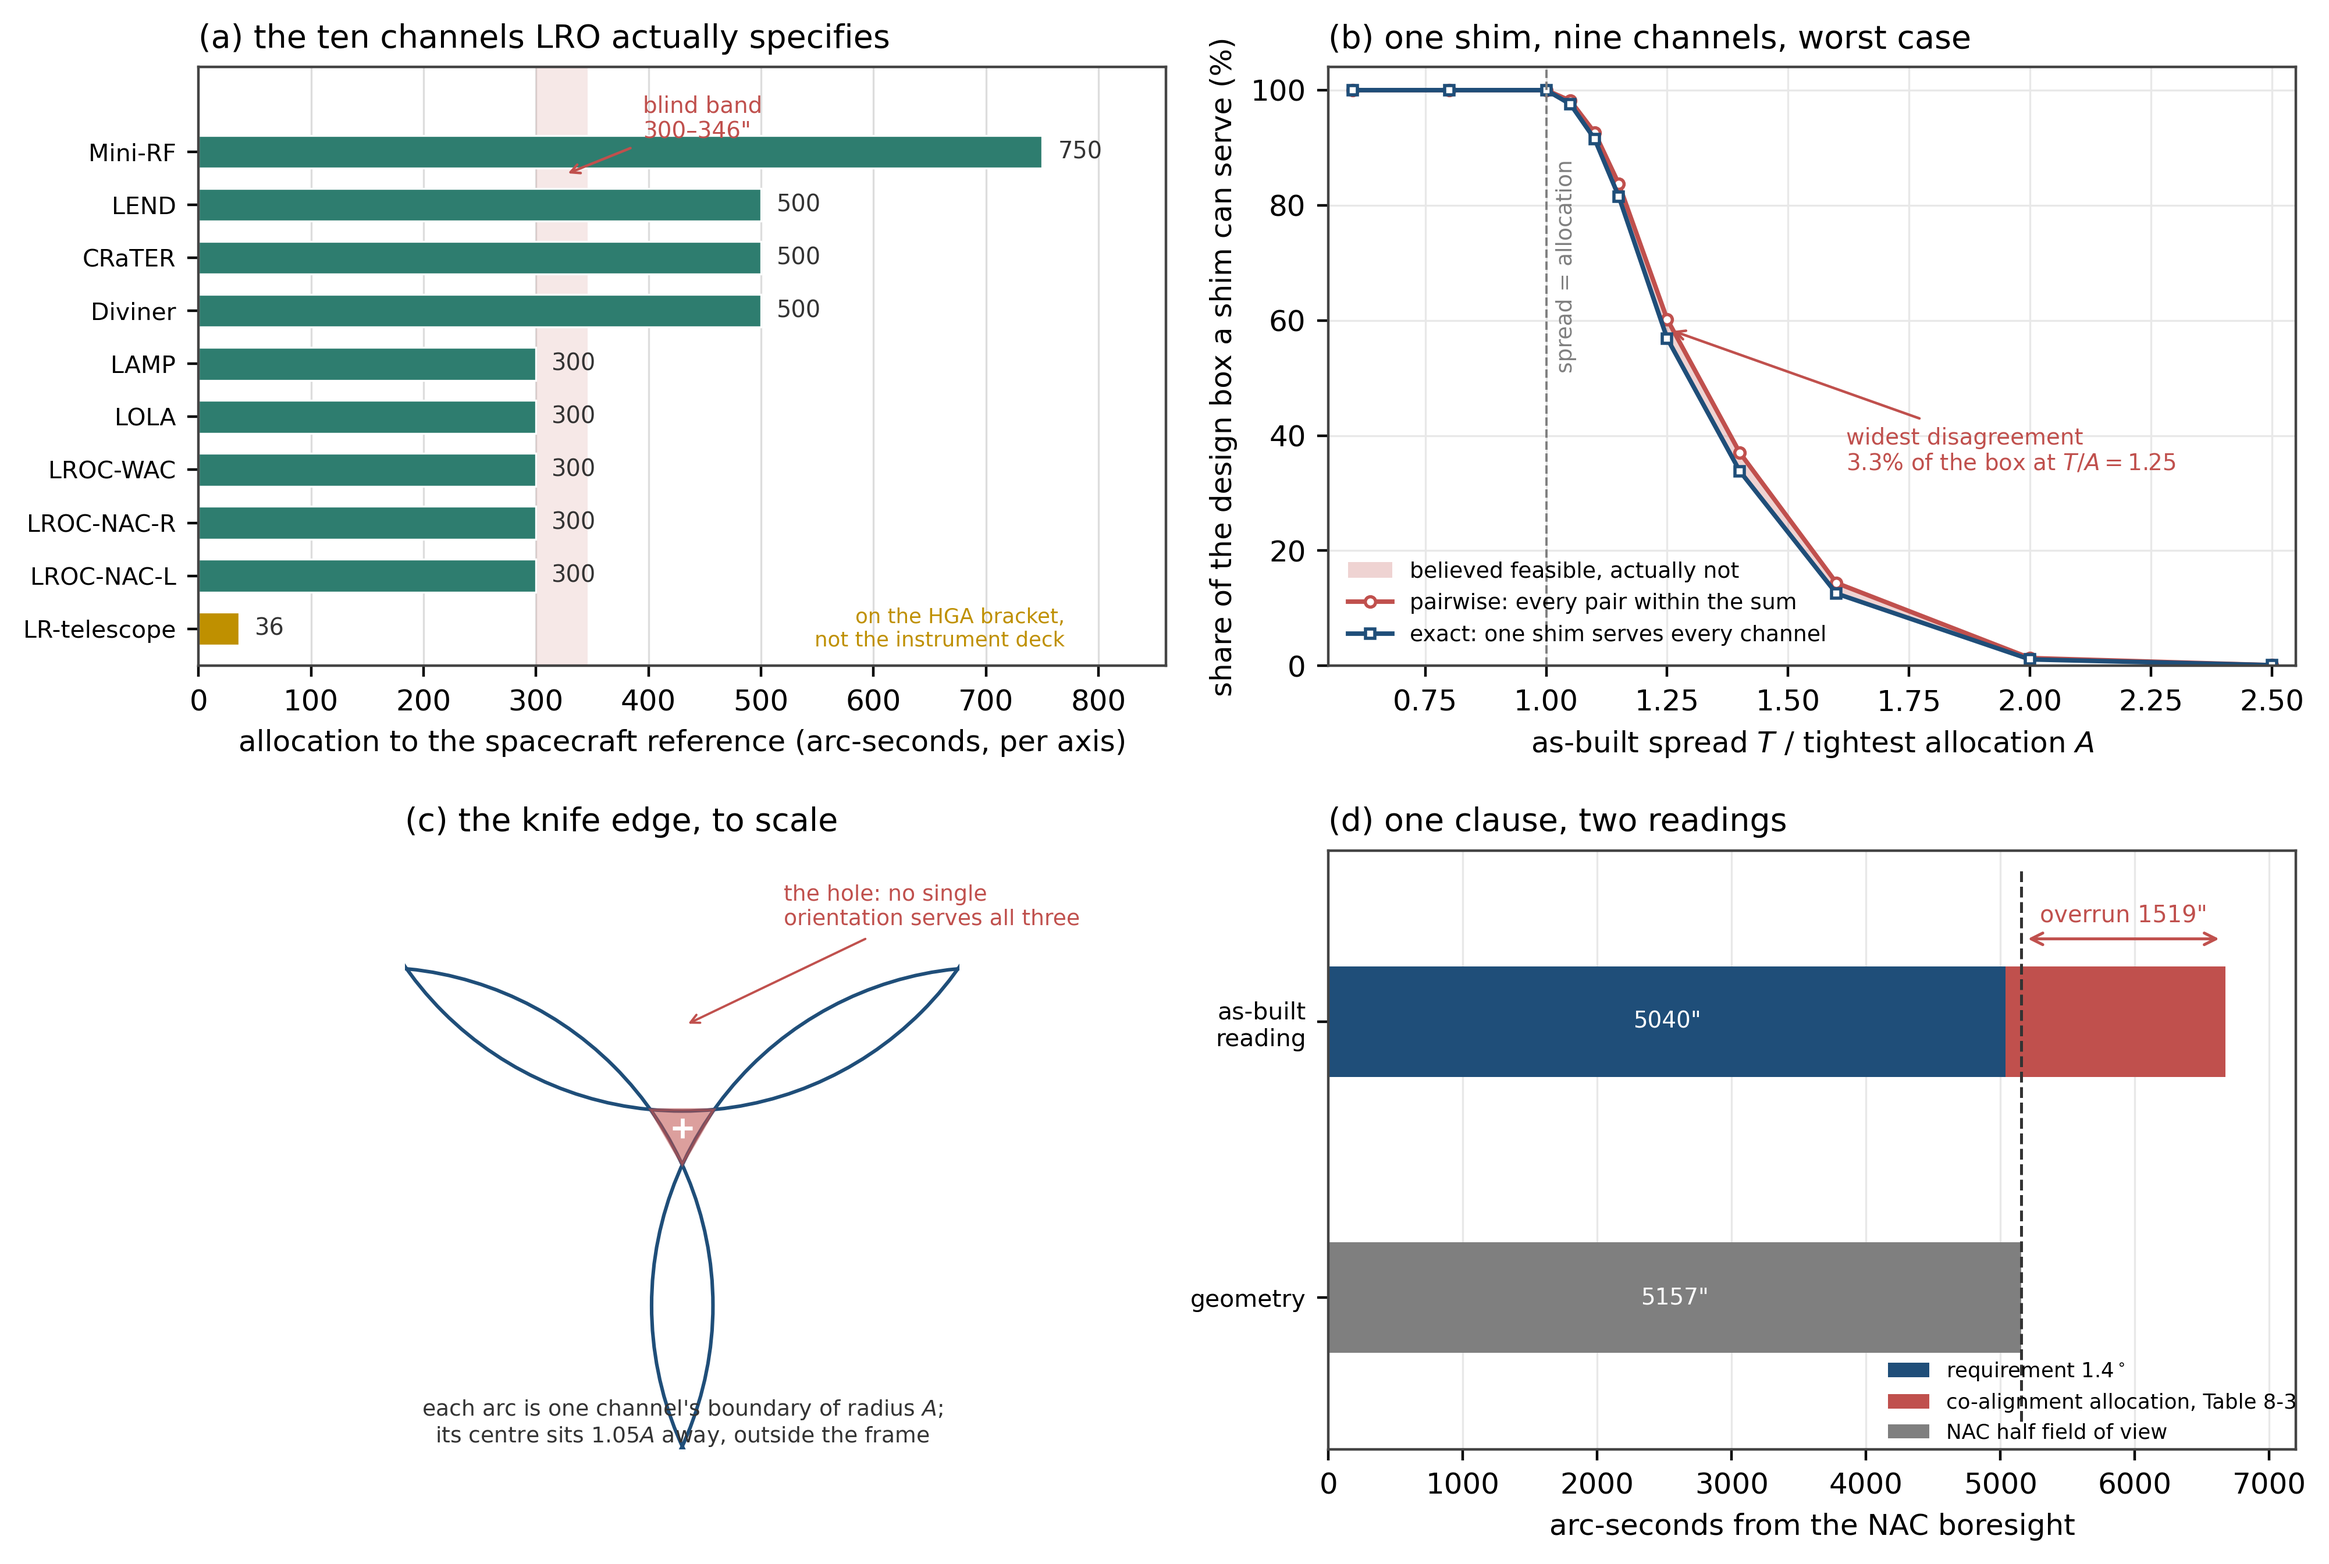
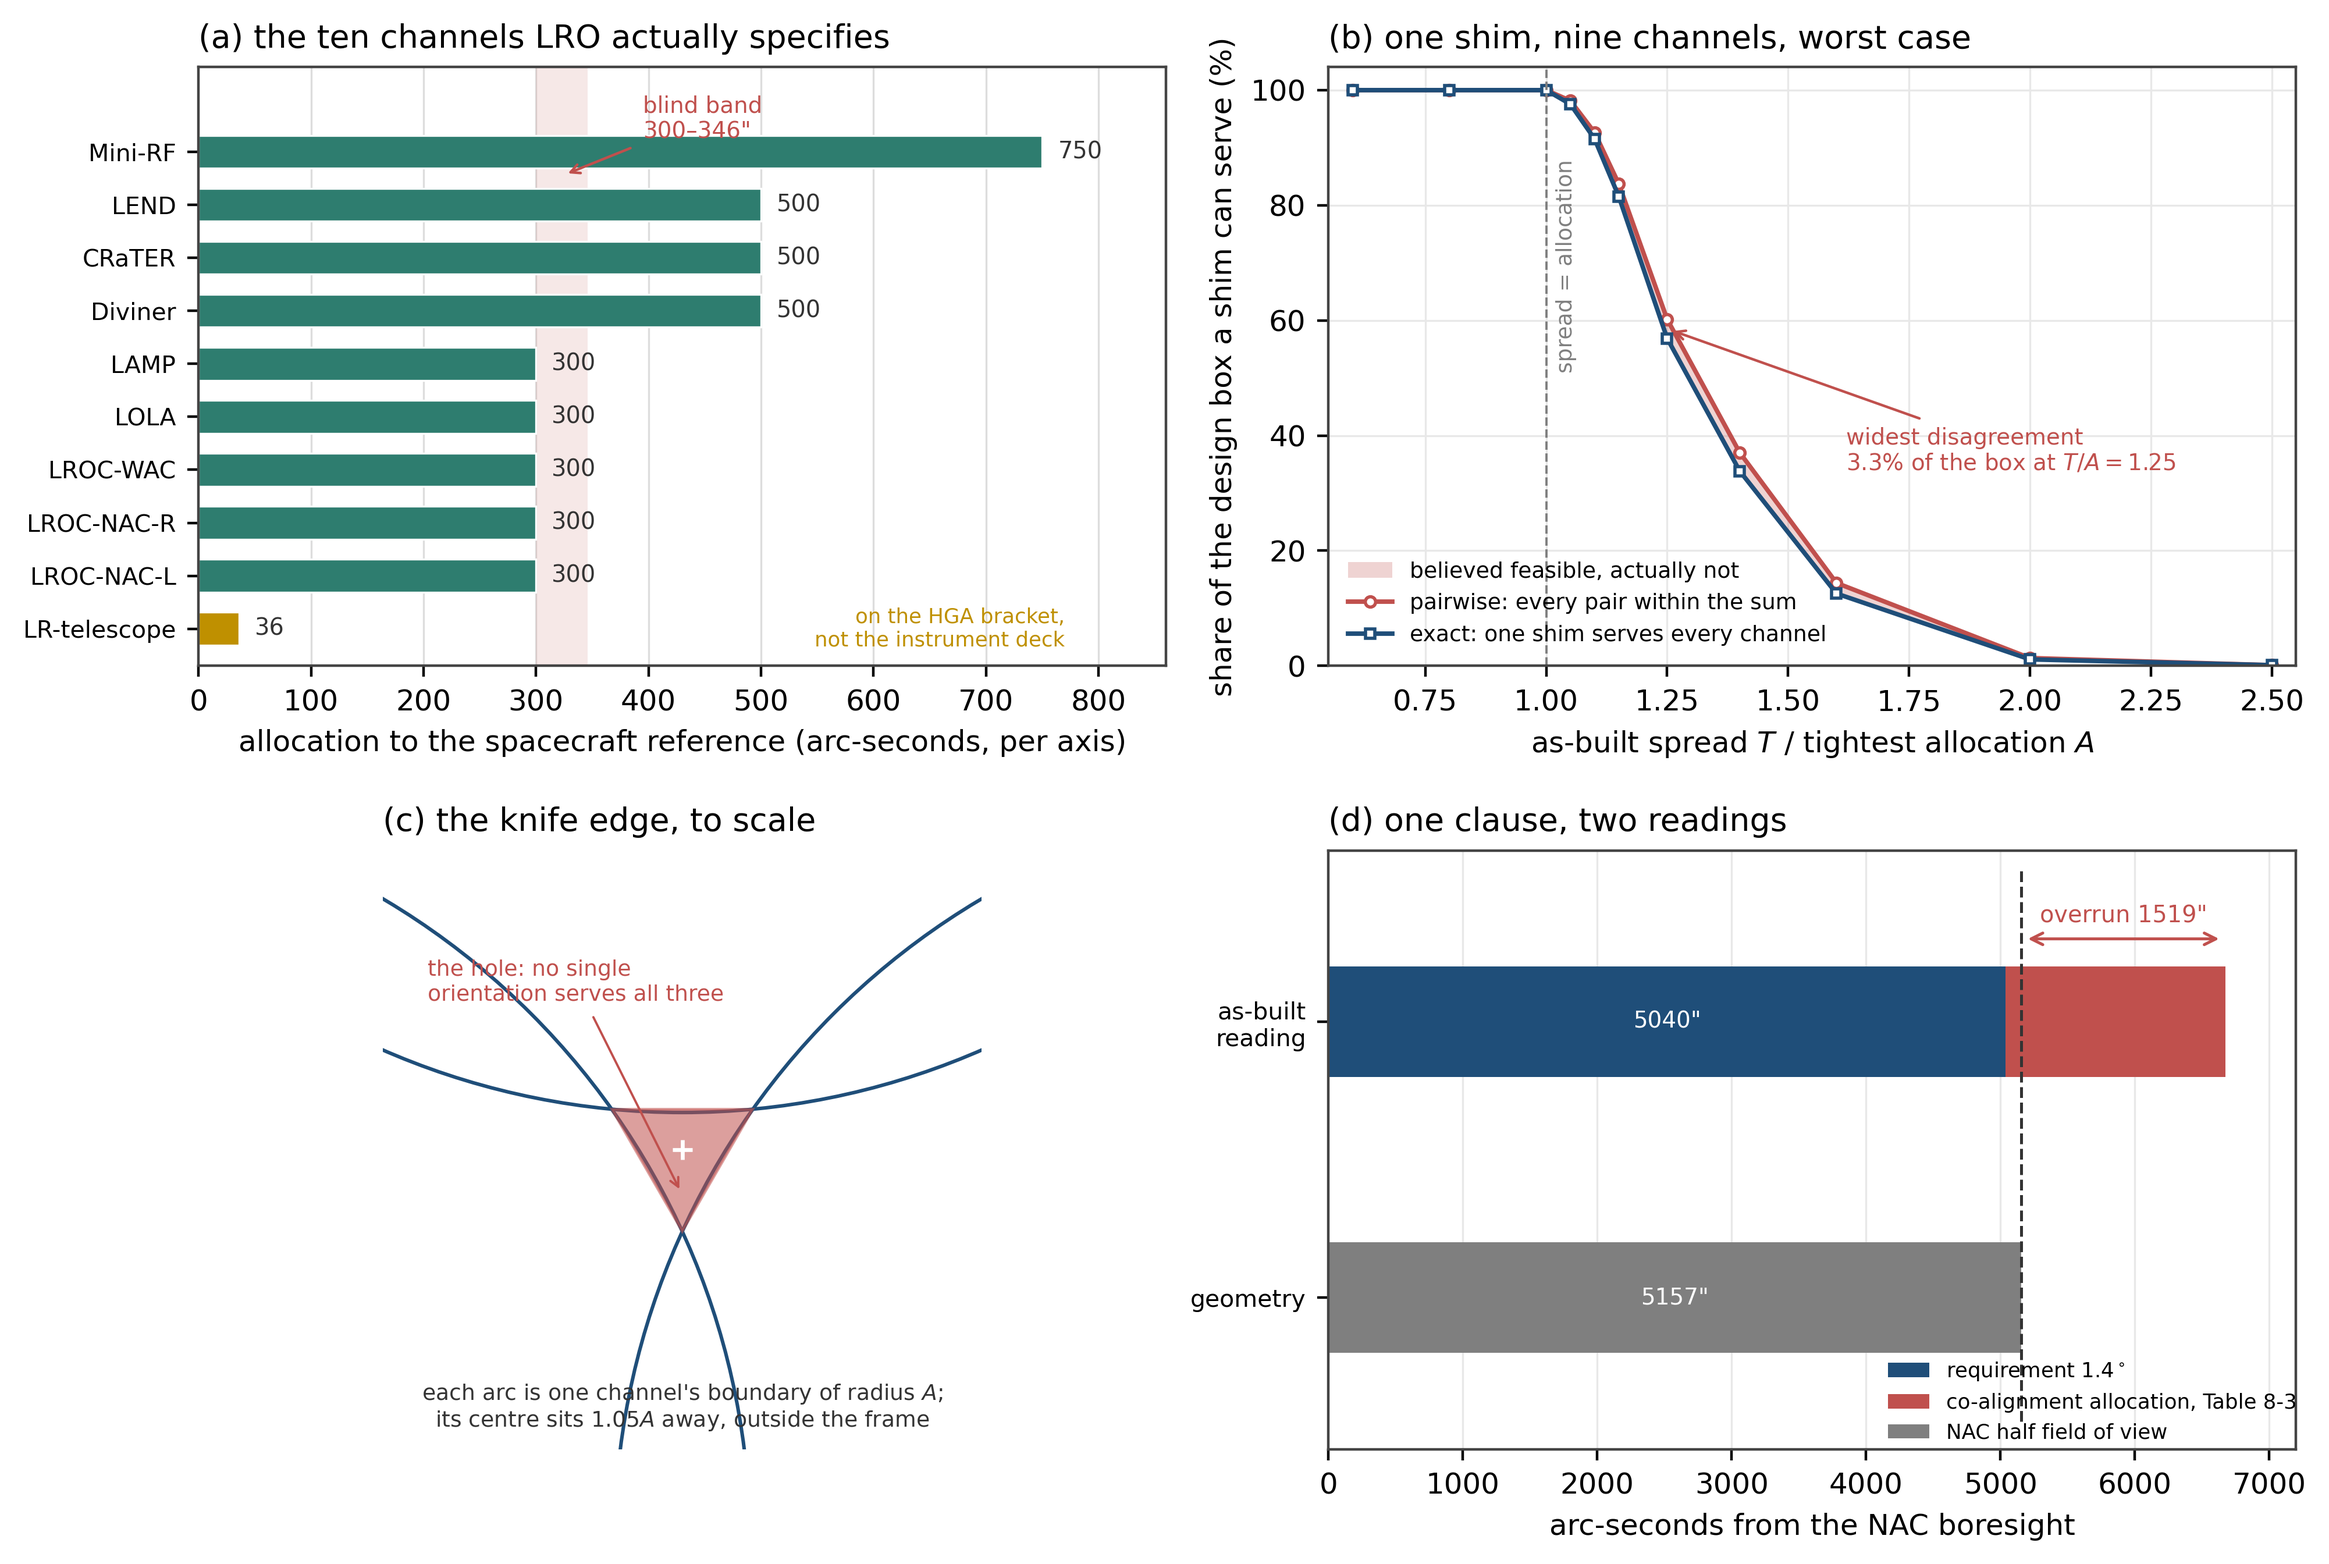
Tighten Fig. 2(c) so the knife-edge fills the panel
The three radius-A arcs were drawn with xlim ±0.82, leaving the central
hole a small speck and most of the panel empty. The viewport is now
±0.40, so the tangency region and the narrow infeasible pocket fill the
panel; the annotation is moved to the left so the figure reads balanced.

Changed region(s): [[0.1874, 0.5938, 0.4059, 0.9375], [0.3435, 0.5625, 0.4372, 0.6562], [0.1561, 0.5, 0.3435, 0.5312]]

diff --git a/plot_p3_replay.py b/plot_p3_replay.py
@@ -118,17 +118,17 @@ def panel_c(ax):
     ax.add_patch(Polygon(pts, closed=True, color=PAIR, alpha=0.55, lw=0.8,
                          edgecolor=PAIR))
     ax.plot(0, 0, "+", ms=6, color="white", mew=1.2)
-    ax.set_xlim(-0.82, 0.82)
-    ax.set_ylim(-0.95, 0.82)
+    ax.set_xlim(-0.40, 0.40)
+    ax.set_ylim(-0.40, 0.40)
     ax.set_aspect("equal")
     ax.spines[["left", "bottom", "right", "top"]].set_visible(False)
     ax.set_xticks([])
     ax.set_yticks([])
     ax.set_title("(c) the knife edge, to scale", loc="left")
     ax.annotate("the hole: no single\norientation serves all three",
-                xy=(0.0, 0.30), xytext=(0.30, 0.60), fontsize=6.8, color=PAIR,
+                xy=(0.0, -0.06), xytext=(-0.34, 0.20), fontsize=6.8, color=PAIR,
                 arrowprops=dict(arrowstyle="->", lw=0.7, color=PAIR))
-    ax.text(0, -0.93, "each arc is one channel's boundary of radius $A$;\n"
+    ax.text(0, -0.37, "each arc is one channel's boundary of radius $A$;\n"
                       "its centre sits $1.05A$ away, outside the frame",
             ha="center", fontsize=6.8, color="#333333")
 
